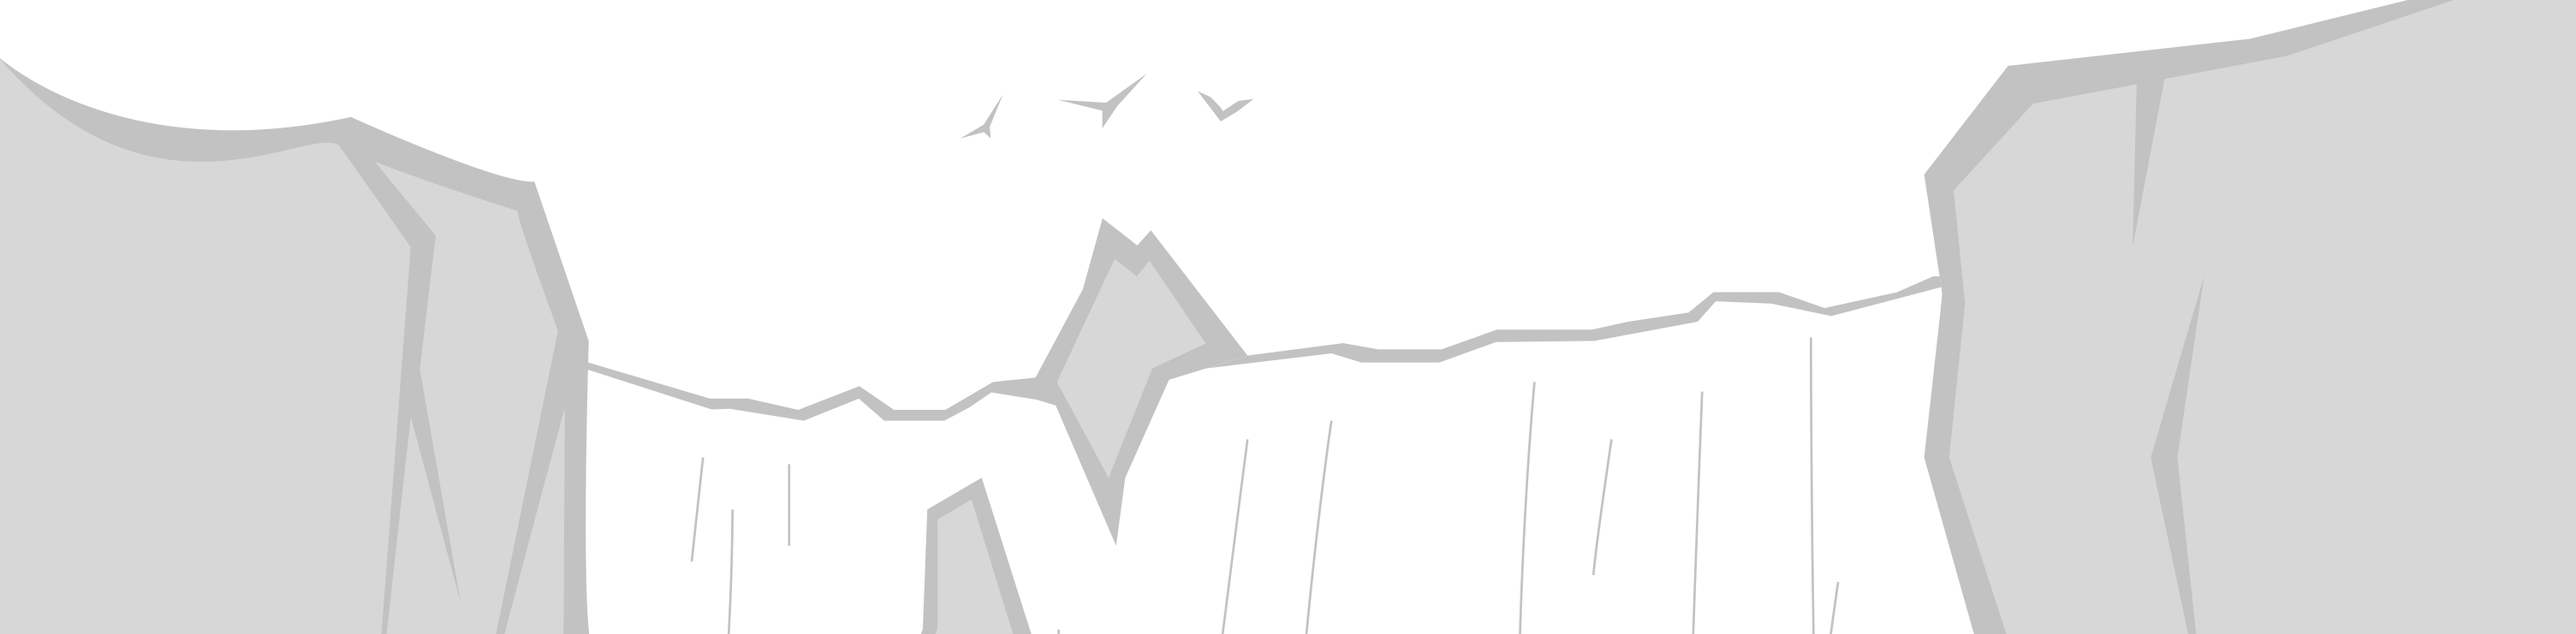
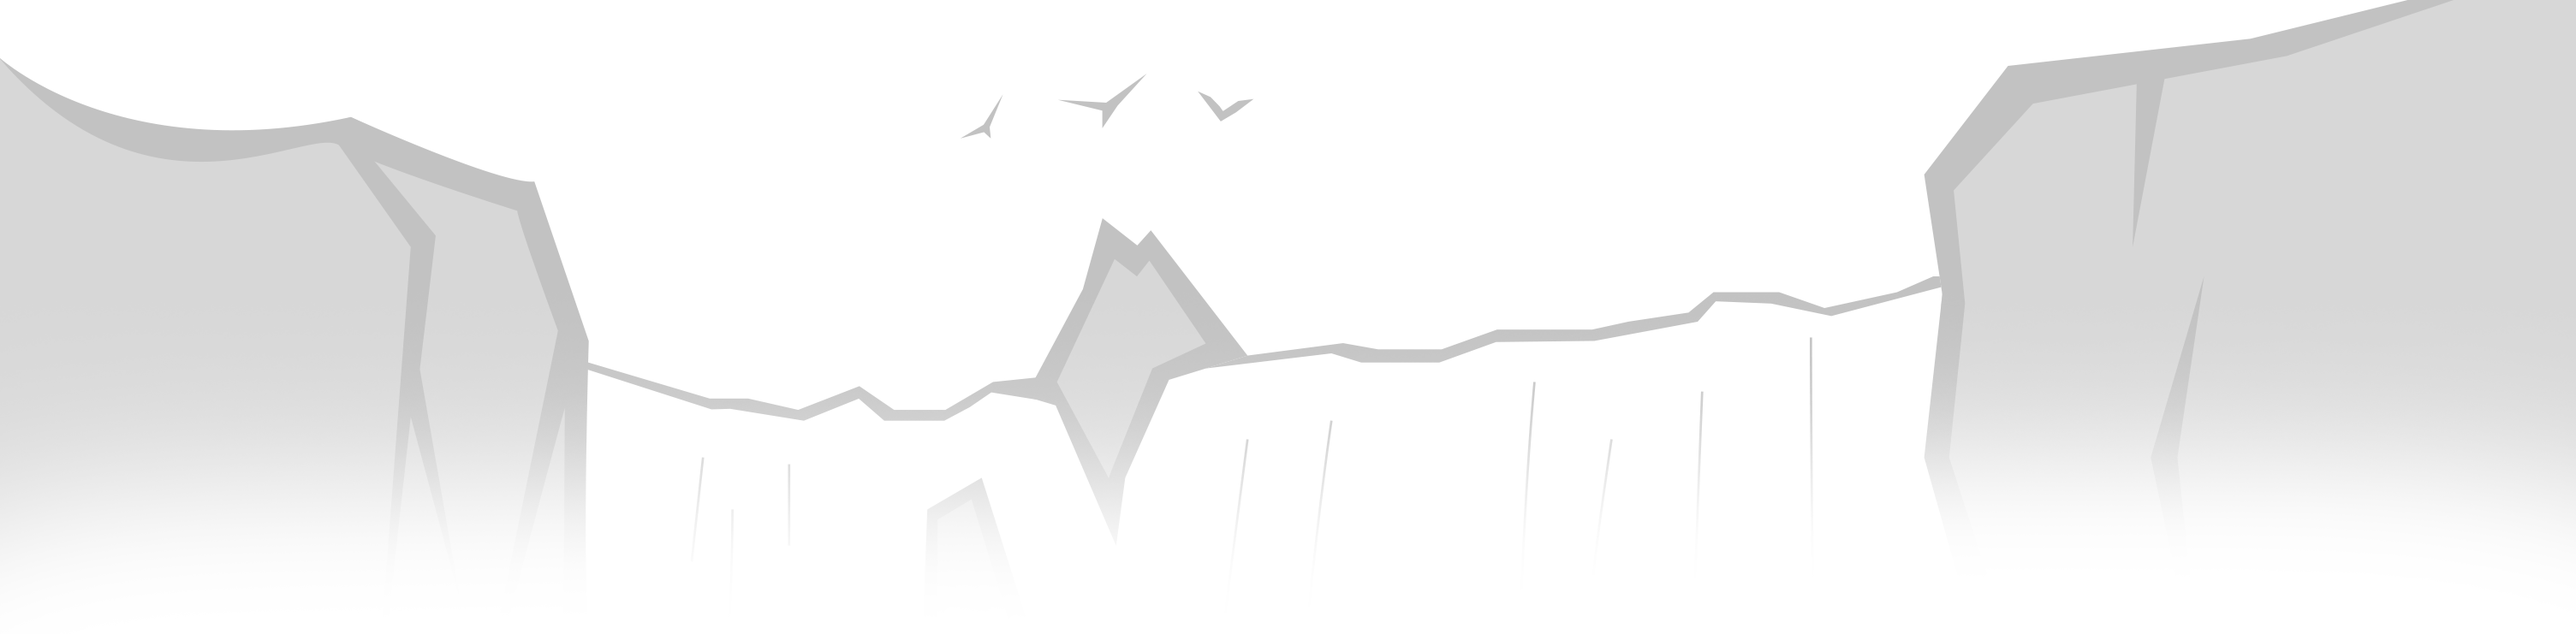
Update waterfall image.

Changed region(s): [[0.7498, 0.6829, 1.0, 1.0], [0.0, 0.7139, 0.2499, 1.0], [0.3436, 0.7139, 0.4374, 1.0]]

diff --git a/css/style.scss b/css/style.scss
@@ -12,7 +12,7 @@
 */
 
 body {
-  background: #ffffff url('../img/waterfall.jpg');
+  background: #ffffff url('../img/waterfall2.png');
   background-size: 100% auto;
   background-repeat: no-repeat;
   background-position: center top;
